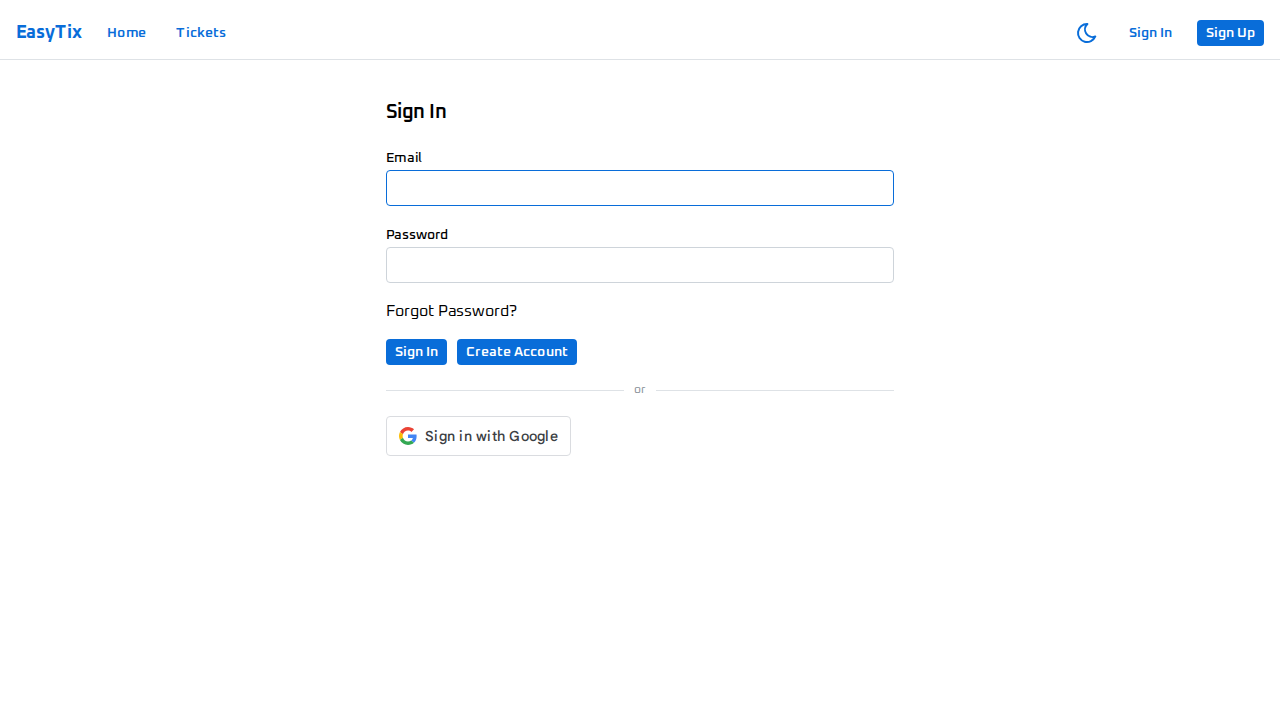
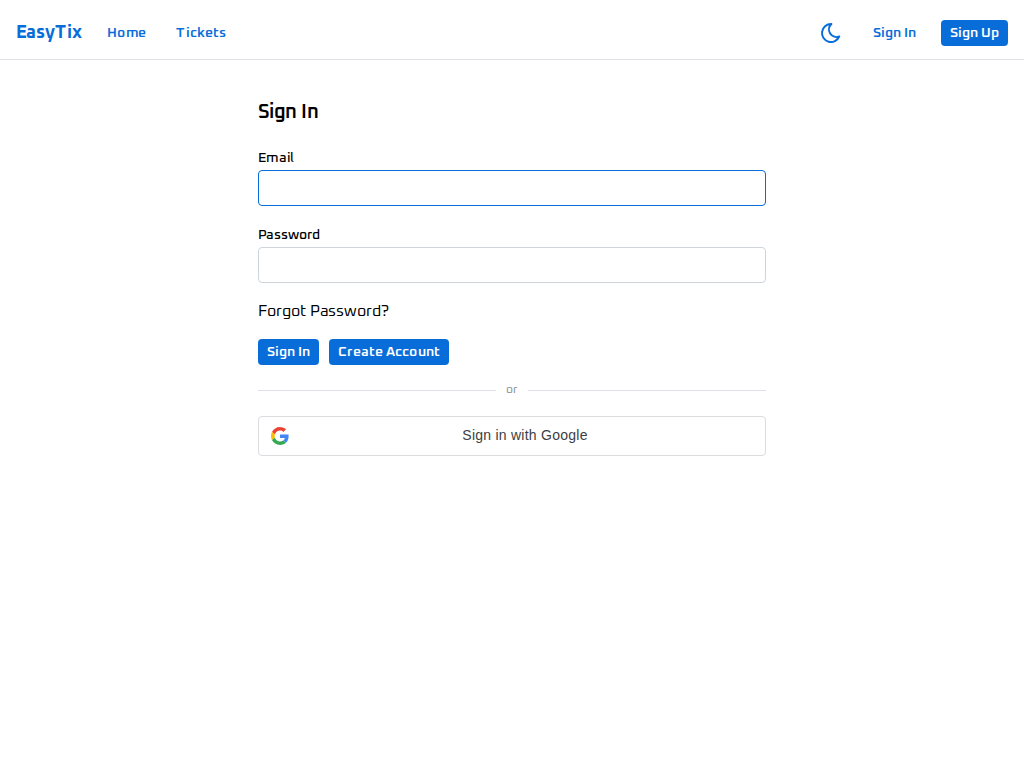
Improve screenshots with realistic viewport captures and better organization
- Remove dashboard screenshots as requested, focus on tickets list page
- Use tablet-like desktop resolution (1024x768) instead of wide desktop
- Capture viewport content only (what users actually see on screen, not full page)
- Reorganize screenshot numbering for cleaner presentation
- Update README to reflect new resolutions and improved organization
- Focus on main tickets page instead of modal for tickets view
- Add note about viewport-based screenshots for realistic presentation

🤖 Generated with [Claude Code](https://claude.ai/code)

diff --git a/README.md b/README.md
@@ -14,26 +14,26 @@ A modern, full-featured ticket management system built with Next.js 15 and NestJ
 
 ### Desktop vs Mobile Views
 
-| Feature | Desktop (1280x720) | Mobile (375x667) |
+*Screenshots show actual viewport content (what users see on screen) at realistic resolutions*
+
+| Feature | Desktop (1024x768) | Mobile (375x667) |
 |---------|-------------------|------------------|
 | **Landing Page** | ![Desktop Landing](screenshots/01-landing-desktop.png) | ![Mobile Landing](screenshots/01-landing-mobile.png) |
 | **Sign Up** | ![Desktop Signup](screenshots/02-signup-desktop.png) | ![Mobile Signup](screenshots/02-signup-mobile.png) |
 | **Sign In** | ![Desktop Signin](screenshots/03-signin-desktop.png) | ![Mobile Signin](screenshots/03-signin-mobile.png) |
 | **Public Ticket Submission** | ![Desktop Public Ticket](screenshots/04-public-ticket-desktop.png) | ![Mobile Public Ticket](screenshots/04-public-ticket-mobile.png) |
-| **Dashboard** | ![Desktop Dashboard](screenshots/05-dashboard-desktop.png) | ![Mobile Dashboard](screenshots/05-dashboard-mobile.png) |
-| **Tickets Management** | ![Desktop Tickets](screenshots/06-tickets-list-desktop.png) | ![Mobile Tickets](screenshots/06-tickets-list-mobile.png) |
-| **User Administration** | ![Desktop Admin Users](screenshots/07-admin-users-desktop.png) | ![Mobile Admin Users](screenshots/07-admin-users-mobile.png) |
-| **Queue Management** | ![Desktop Admin Queues](screenshots/08-admin-queues-desktop.png) | ![Mobile Admin Queues](screenshots/08-admin-queues-mobile.png) |
-| **Admin Notifications** | ![Desktop Admin Notifications](screenshots/09-admin-notifications-desktop.png) | ![Mobile Admin Notifications](screenshots/09-admin-notifications-mobile.png) |
-| **User Profile** | ![Desktop Profile](screenshots/10-profile-desktop.png) | ![Mobile Profile](screenshots/10-profile-mobile.png) |
-| **Notification Settings** | ![Desktop Notifications](screenshots/11-notification-settings-desktop.png) | ![Mobile Notifications](screenshots/11-notification-settings-mobile.png) |
+| **Tickets Management** | ![Desktop Tickets](screenshots/05-tickets-list-desktop.png) | ![Mobile Tickets](screenshots/05-tickets-list-mobile.png) |
+| **User Administration** | ![Desktop Admin Users](screenshots/06-admin-users-desktop.png) | ![Mobile Admin Users](screenshots/06-admin-users-mobile.png) |
+| **Queue Management** | ![Desktop Admin Queues](screenshots/07-admin-queues-desktop.png) | ![Mobile Admin Queues](screenshots/07-admin-queues-mobile.png) |
+| **User Profile** | ![Desktop Profile](screenshots/08-profile-desktop.png) | ![Mobile Profile](screenshots/08-profile-mobile.png) |
+| **Notification Settings** | ![Desktop Notifications](screenshots/09-notification-settings-desktop.png) | ![Mobile Notifications](screenshots/09-notification-settings-mobile.png) |
 
-### 🎯 **Modal Interactions**
+### 🎯 **Advanced Features**
 
 | Feature | Desktop Modal |
 |---------|---------------|
-| **User Tickets Modal** | ![User Tickets Modal](screenshots/12-user-tickets-modal-desktop.png) |
-| **User Queue Assignment Modal** | ![User Queues Modal](screenshots/13-user-queues-modal-desktop.png) |
+| **User Tickets Modal** | ![User Tickets Modal](screenshots/10-user-tickets-modal-desktop.png) |
+| **User Queue Assignment Modal** | ![User Queues Modal](screenshots/11-user-queues-modal-desktop.png) |
 
 ## 🚀 Key Features
 
